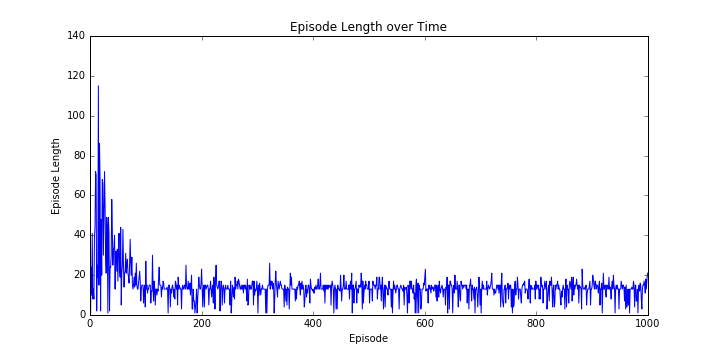
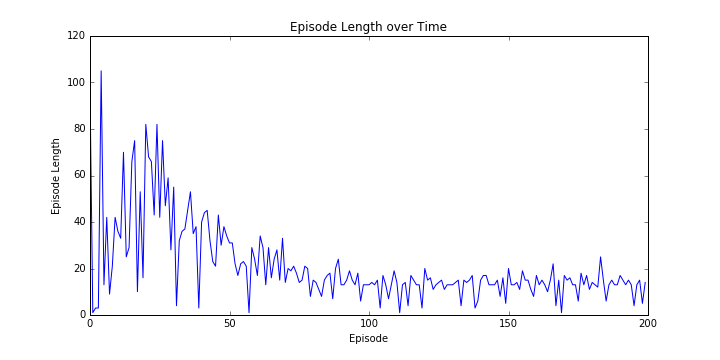
modifying Q learning`

diff --git a/TDandQ/QLearning/Qlearning.py b/TDandQ/QLearning/Qlearning.py
@@ -7,7 +7,7 @@ import pandas as pd
 import sys
 
 from collections import defaultdict
-from envs.cliff_walking import CliffWalkingEnv
+from envs.windy_gridworld import WindyGridworldEnv
 from utils import plotting
 
 
@@ -97,7 +97,7 @@ def q_learning(env, num_episodes, discount_factor=1.0, alpha=0.5, epsilon=0.1):
     return Q, stats
 
 
-Q, stats = q_learning(env, 1000)
+Q, stats = q_learning(env, 200)
 
 
 
